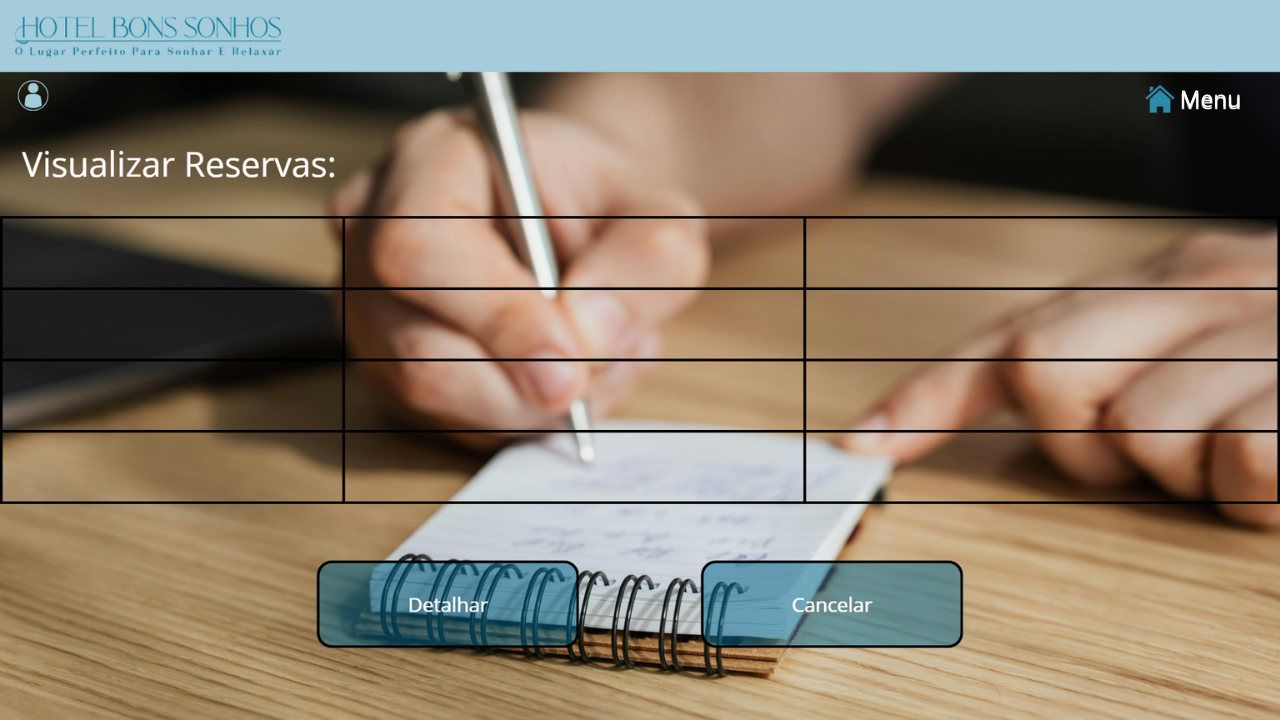
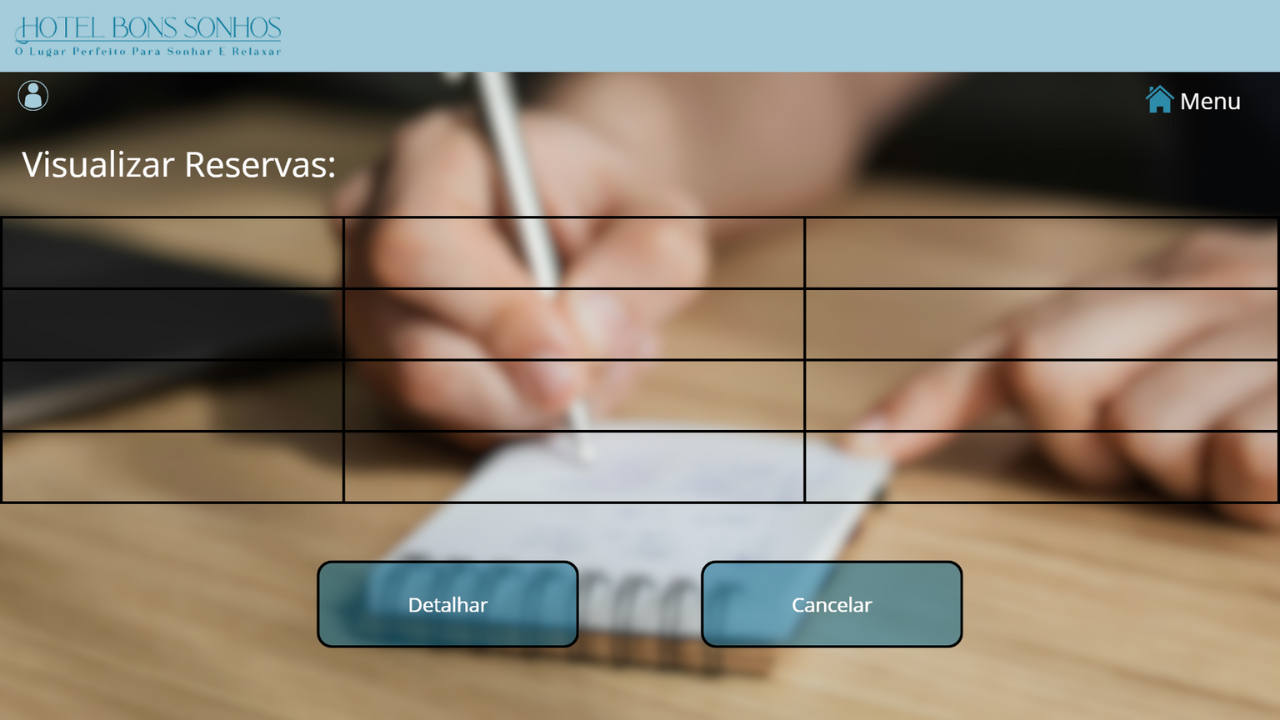
local para aparecer o email do usuario cliente naquele momento

diff --git a/src/main/java/views/telasCliente/VisualizarReservas.java b/src/main/java/views/telasCliente/VisualizarReservas.java
@@ -1,5 +1,6 @@
 package views.telasCliente;
 
+import controller.UsuarioController;
 import dto.ReservaDTO;
 import views.JanelaPadrao;
 import views.ObjetosTelas.Botao;
@@ -8,6 +9,7 @@ import javax.swing.*;
 import javax.swing.table.DefaultTableModel;
 
 import controller.ReservaController;
+import views.ObjetosTelas.EspacoTexto;
 
 import java.awt.event.ActionEvent;
 import java.awt.event.ActionListener;
@@ -21,6 +23,7 @@ public class VisualizarReservas extends JanelaPadrao {
     private DefaultTableModel modelo;
     private JTable tabela;
     private JScrollPane painelTabela;
+    private EspacoTexto emailUsuario = new EspacoTexto();
 
     public VisualizarReservas(String CPF){
         this.CPF = CPF;
@@ -51,7 +54,7 @@ public class VisualizarReservas extends JanelaPadrao {
         });
     }
 
-//Tabela para mostrar os quartos do cliente, falta pegar as reservas, e também configurar as linhas
+
 
     public void tabela() {
         ArrayList<ReservaDTO> reservas = ReservaController.resgatarReservasDeClientes(CPF);
@@ -81,8 +84,11 @@ public class VisualizarReservas extends JanelaPadrao {
         detalhar.setBounds(324,559,262,87);
         cancelar.setBounds(708,559,262,87);
         voltarMenu.setBounds(1140,80,105,40);
+        emailUsuario.setBounds(52,80,436,36);
+        emailUsuario.setText(UsuarioController.recuperarEmail(CPF));
         add(cancelar);
         add(detalhar);
         add(voltarMenu);
+        add(emailUsuario);
     }
 }
